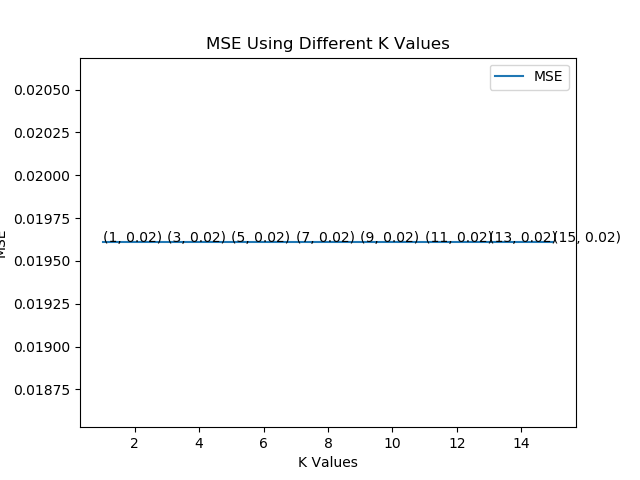
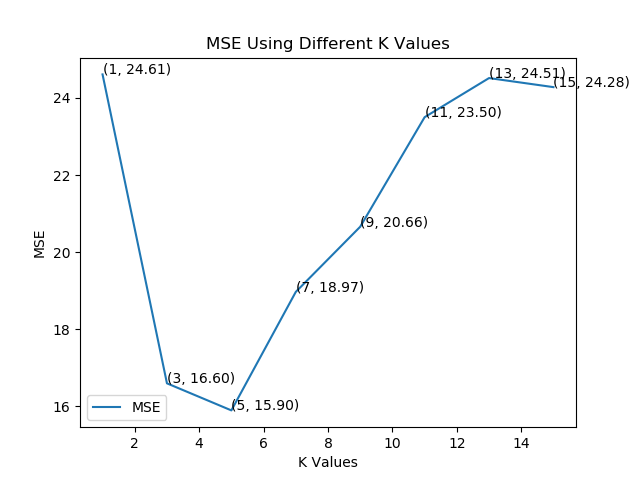
Fix regression issue for part 3

diff --git a/KNN/KNN.py b/KNN/KNN.py
@@ -307,7 +307,7 @@ def part3():
     k_values = [1, 3, 5, 7, 9, 11, 13, 15]
     mses = []
     for k_val in k_values:
-        KNN = KNNClassifier(label_type='classification', weight_type='no_weight', k_neighbors=k_val)
+        KNN = KNNClassifier(label_type='regression', weight_type='no_weight', k_neighbors=k_val)
         KNN.fit(train_data, train_labels)
         score = KNN.score(test_data, test_labels)
         mses.append(score)
@@ -327,7 +327,7 @@ def part3():
 
 if __name__ == '__main__':
 
-    part1()
-    part2()
-    # part3()
+    # part1()
+    # part2()
+    part3()
 
